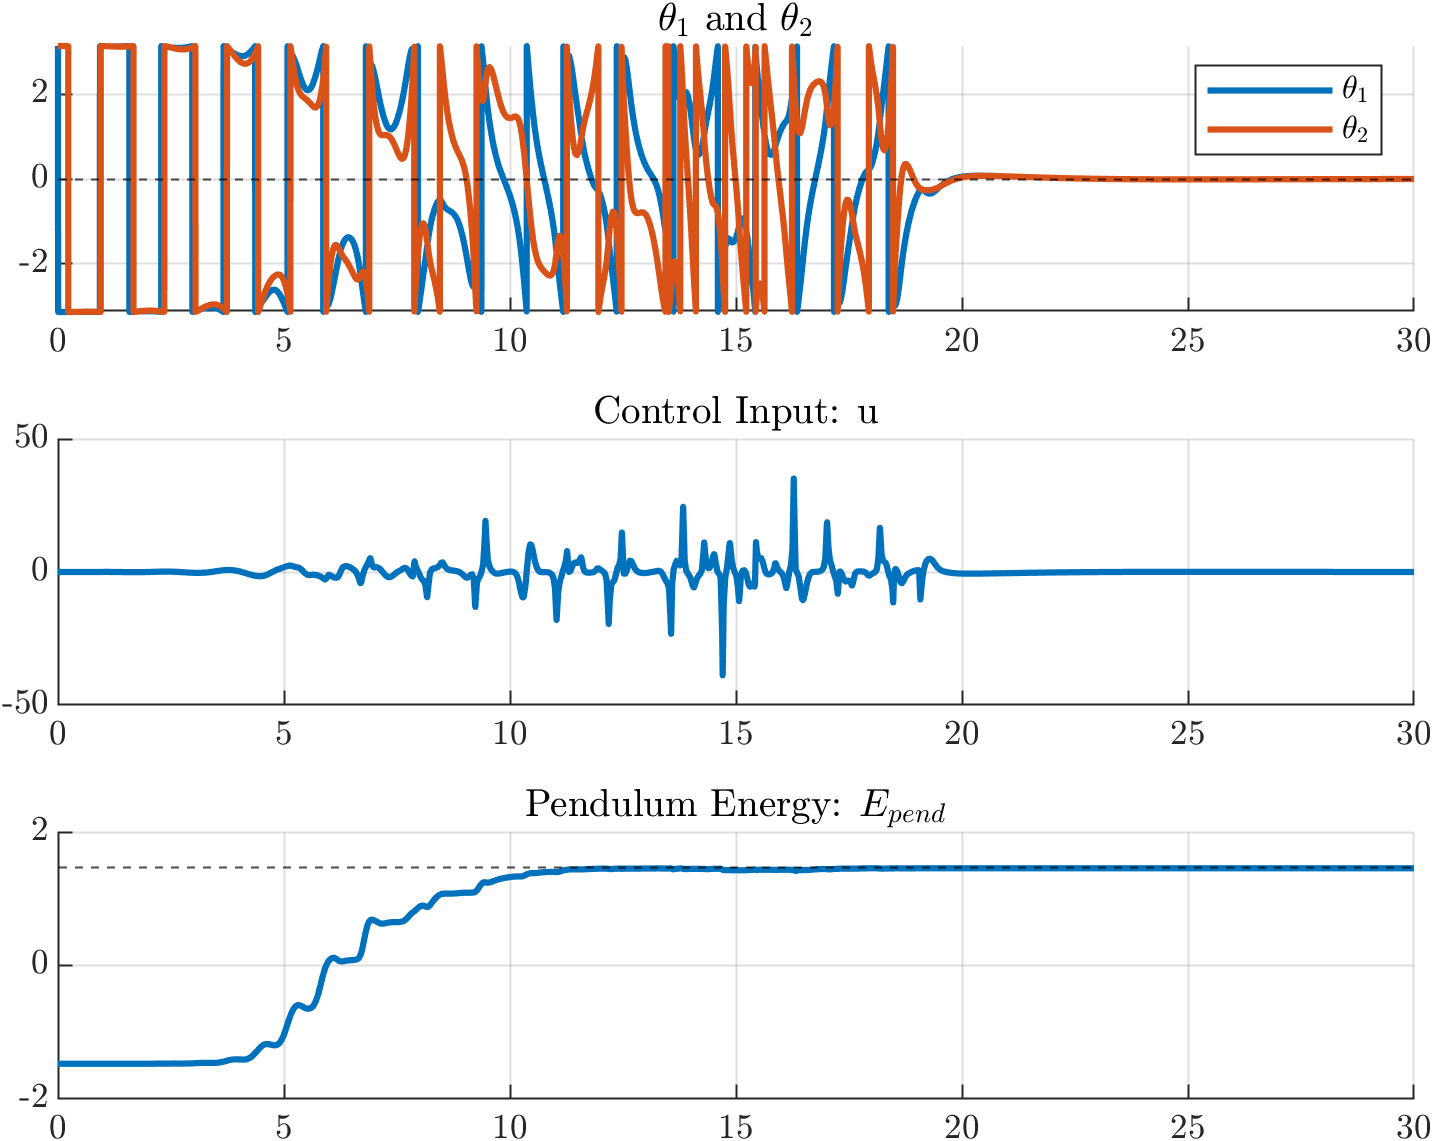
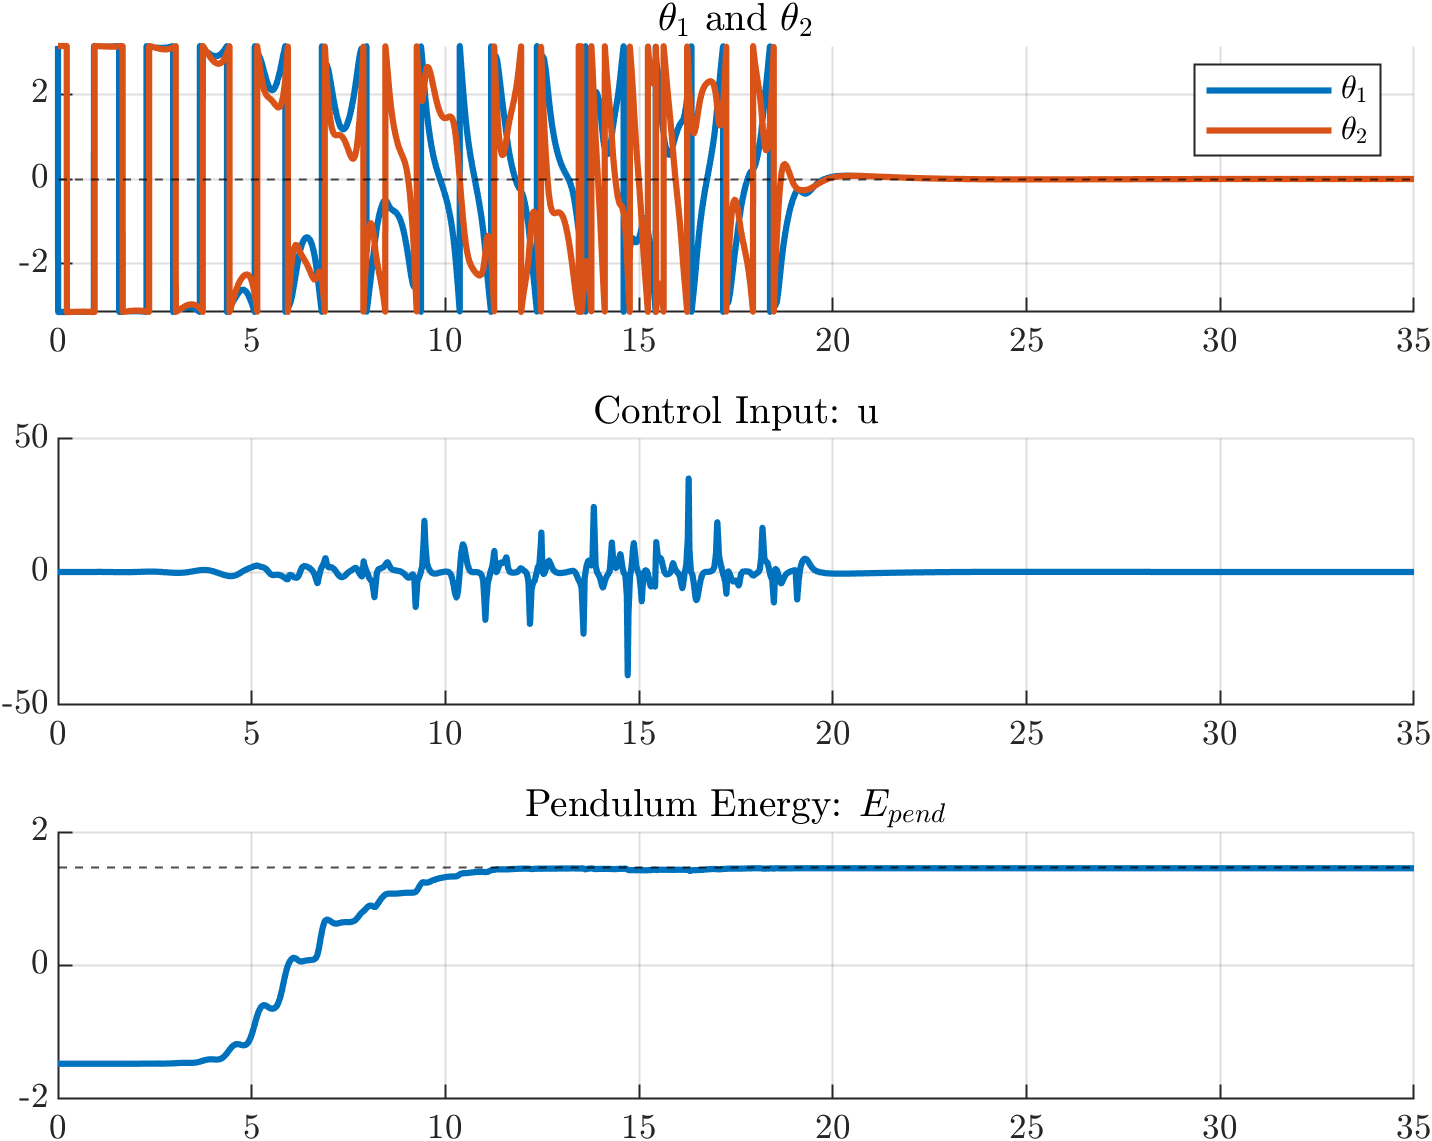
animation export fix

diff --git a/code/energy-shaping/main_energy_shaping.m b/code/energy-shaping/main_energy_shaping.m
@@ -65,7 +65,7 @@ N = 30;
 
 % integrator settings
 options = odeset('AbsTol', 1e-12, 'RelTol', 1e-12);
-tf = 30;
+tf = 35;
 dt = 0.001;
 t = 0:dt:tf;
 num_samples = length(t);
@@ -165,7 +165,7 @@ ee_x = j2_x - L2.*sin(x5_history);
 ee_y = j2_y + L2.*cos(x5_history);
 
 % --Animation--
-f1 = figure('Name', 'Double Inverted Pendulum', 'Color', 'w');
+f1 = figure('Name', 'Double Inverted Pendulum', 'Color', 'w', 'WindowState', 'maximized');
 hold on; grid on; axis equal;
 
 % axis limits
@@ -182,8 +182,8 @@ h_cart = rectangle('Position', [j1_x(1)-.5*cart_width, -.5*cart_height, cart_wid
 h_link1 = plot([j1_x(1), j2_x(1)], [j1_y(1), j2_y(1)], 'color', [0, 0.4470, 0.7410]);
 h_link2 = plot([j2_x(1), ee_x(1)], [j2_y(1), ee_y(1)], 'color', [0, 0.4470, 0.7410]);
 h_joints = plot([j1_x(1), j2_x(1)], [j1_y(1), j2_y(1)], 'o', 'MarkerSize', 3, 'MarkerFaceColor', [0, 0.4470, 0.7410], 'Color', [0, 0.4470, 0.7410]);
-h_ctrl_mode = text(2, (L1+L2+.45), 'Swing-up', 'Color', '#D95319');
-time = text(2, 2, 't=0.0 s');
+h_ctrl_mode = text(2, (L1+L2+.35), 'Tracking', 'Color', '#D95319');
+time = text(2, (L1+L2+.45), 't=0.0 s');
 % time = annotation('textbox', [0.75 0.85 0.2 0.1], 'String', 't=0.0 s', 'EdgeColor', 'none');
 
 pause(.75)
@@ -277,7 +277,9 @@ plot(t, [x5_history; x6_history])
 legend('$\theta_2$', '$\dot{\theta}_2$')
 
 if export_plt == 'y'
-    exportgraphics(f2, fullfile('Report', 'E_shaping', 'theta_u_E.png'), 'Resolution', 300);
-    exportgraphics(f3, fullfile('Report', 'E_shaping', 'cart_v_u.png'), 'Resolution', 300);
-    exportgraphics(f4, fullfile('Report', 'E_shaping', 'states.png'), 'Resolution', 300);
+    currentPath = fileparts(mfilename('fullpath'));
+    mediaPath = fullfile(currentPath, '..', '..', 'media', 'energy_shaping');
+    exportgraphics(f2, fullfile(mediaPath, 'theta_u_E.png'), 'Resolution', 300);
+    exportgraphics(f3, fullfile(mediaPath, 'cart_v_u.png'), 'Resolution', 300);
+    exportgraphics(f4, fullfile(mediaPath, 'states.png'), 'Resolution', 300);
 end

diff --git a/code/trajectory-optimization/main_trajectory_tracking.m b/code/trajectory-optimization/main_trajectory_tracking.m
@@ -169,9 +169,11 @@ legend('', '','switch time');
 xlabel('time (s)')
 
 if export_plt == 'y'
-    exportgraphics(f2, fullfile('Report', 'traj_opt', 'pos_u.png'), 'Resolution', 300);
-    exportgraphics(f3, fullfile('Report', 'traj_opt', 'states.png'), 'Resolution', 300);
-    exportgraphics(f4, fullfile('Report', 'traj_opt', 'state_traj.png'), 'Resolution', 300);
-    exportgraphics(f5, fullfile('Report', 'traj_opt', 'state_error.png'), 'Resolution', 300);
-    exportgraphics(f6, fullfile('Report', 'traj_opt', 'input_traj.png'), 'Resolution', 300);
+    currentPath = fileparts(mfilename('fullpath'));
+    mediaPath = fullfile(currentPath, '..', '..', 'media', 'trajectory_optimization');
+    exportgraphics(f2, fullfile(mediaPath, 'pos_u.png'), 'Resolution', 300);
+    exportgraphics(f3, fullfile(mediaPath, 'states.png'), 'Resolution', 300);
+    exportgraphics(f4, fullfile(mediaPath, 'state_traj.png'), 'Resolution', 300);
+    exportgraphics(f5, fullfile(mediaPath, 'state_error.png'), 'Resolution', 300);
+    exportgraphics(f6, fullfile(mediaPath, 'input_traj.png'), 'Resolution', 300);
 end